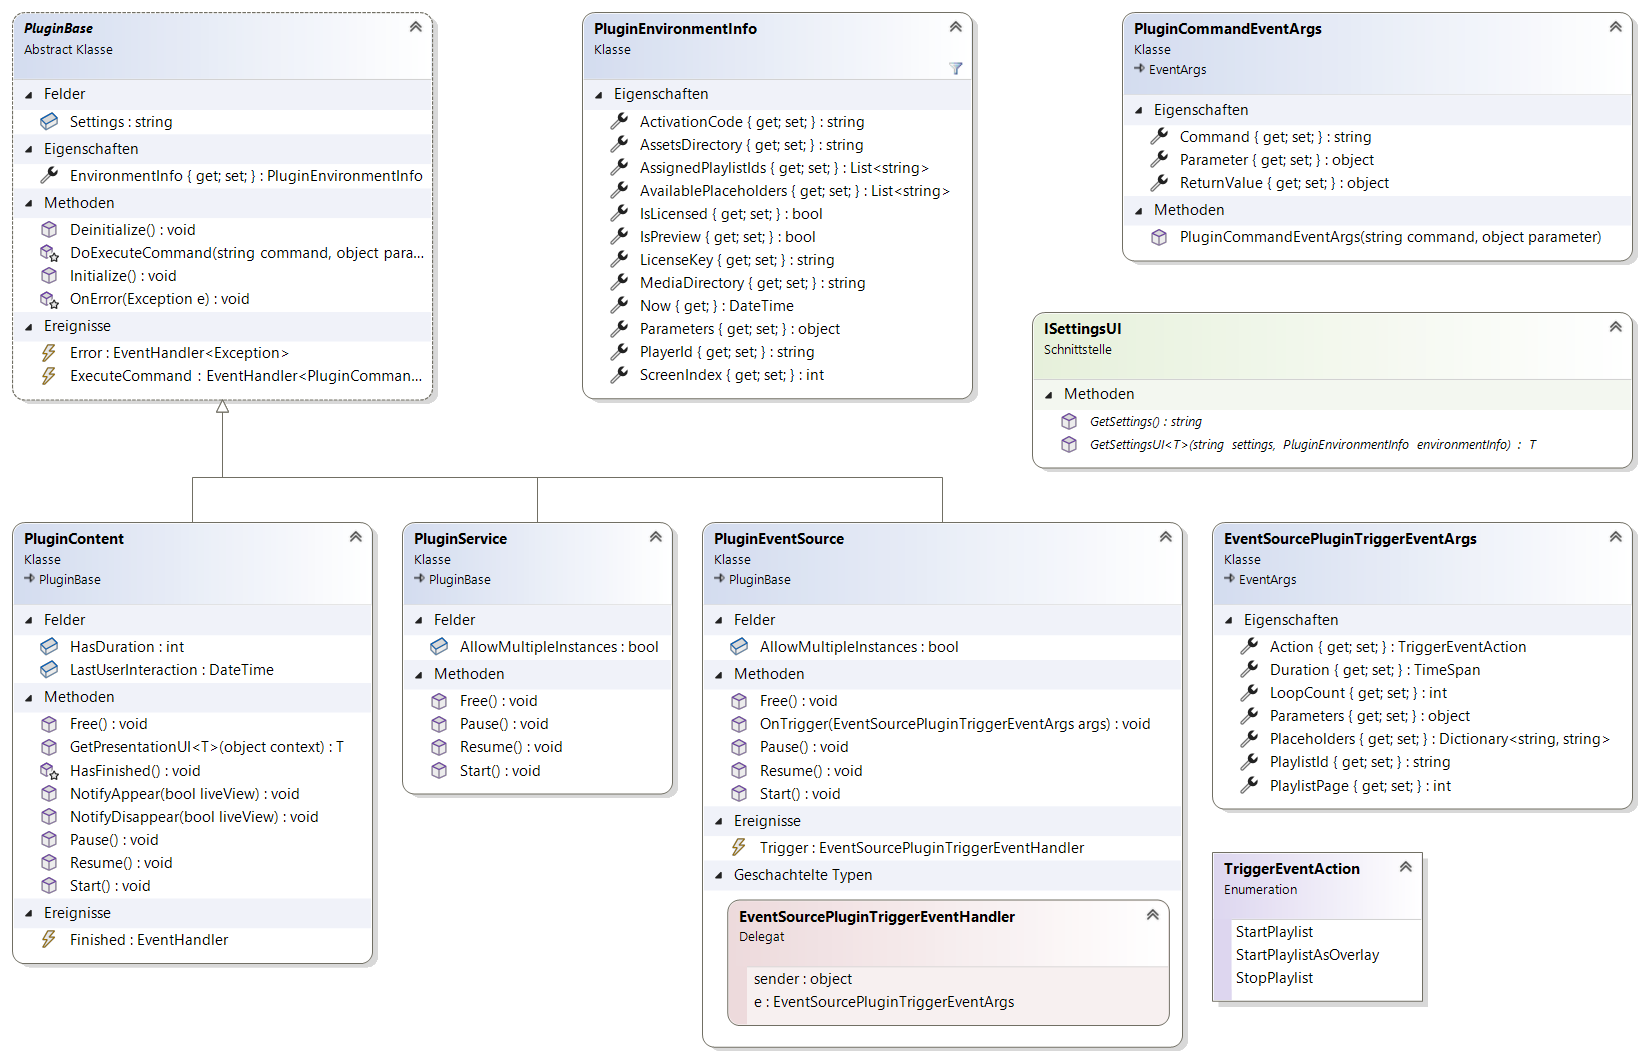
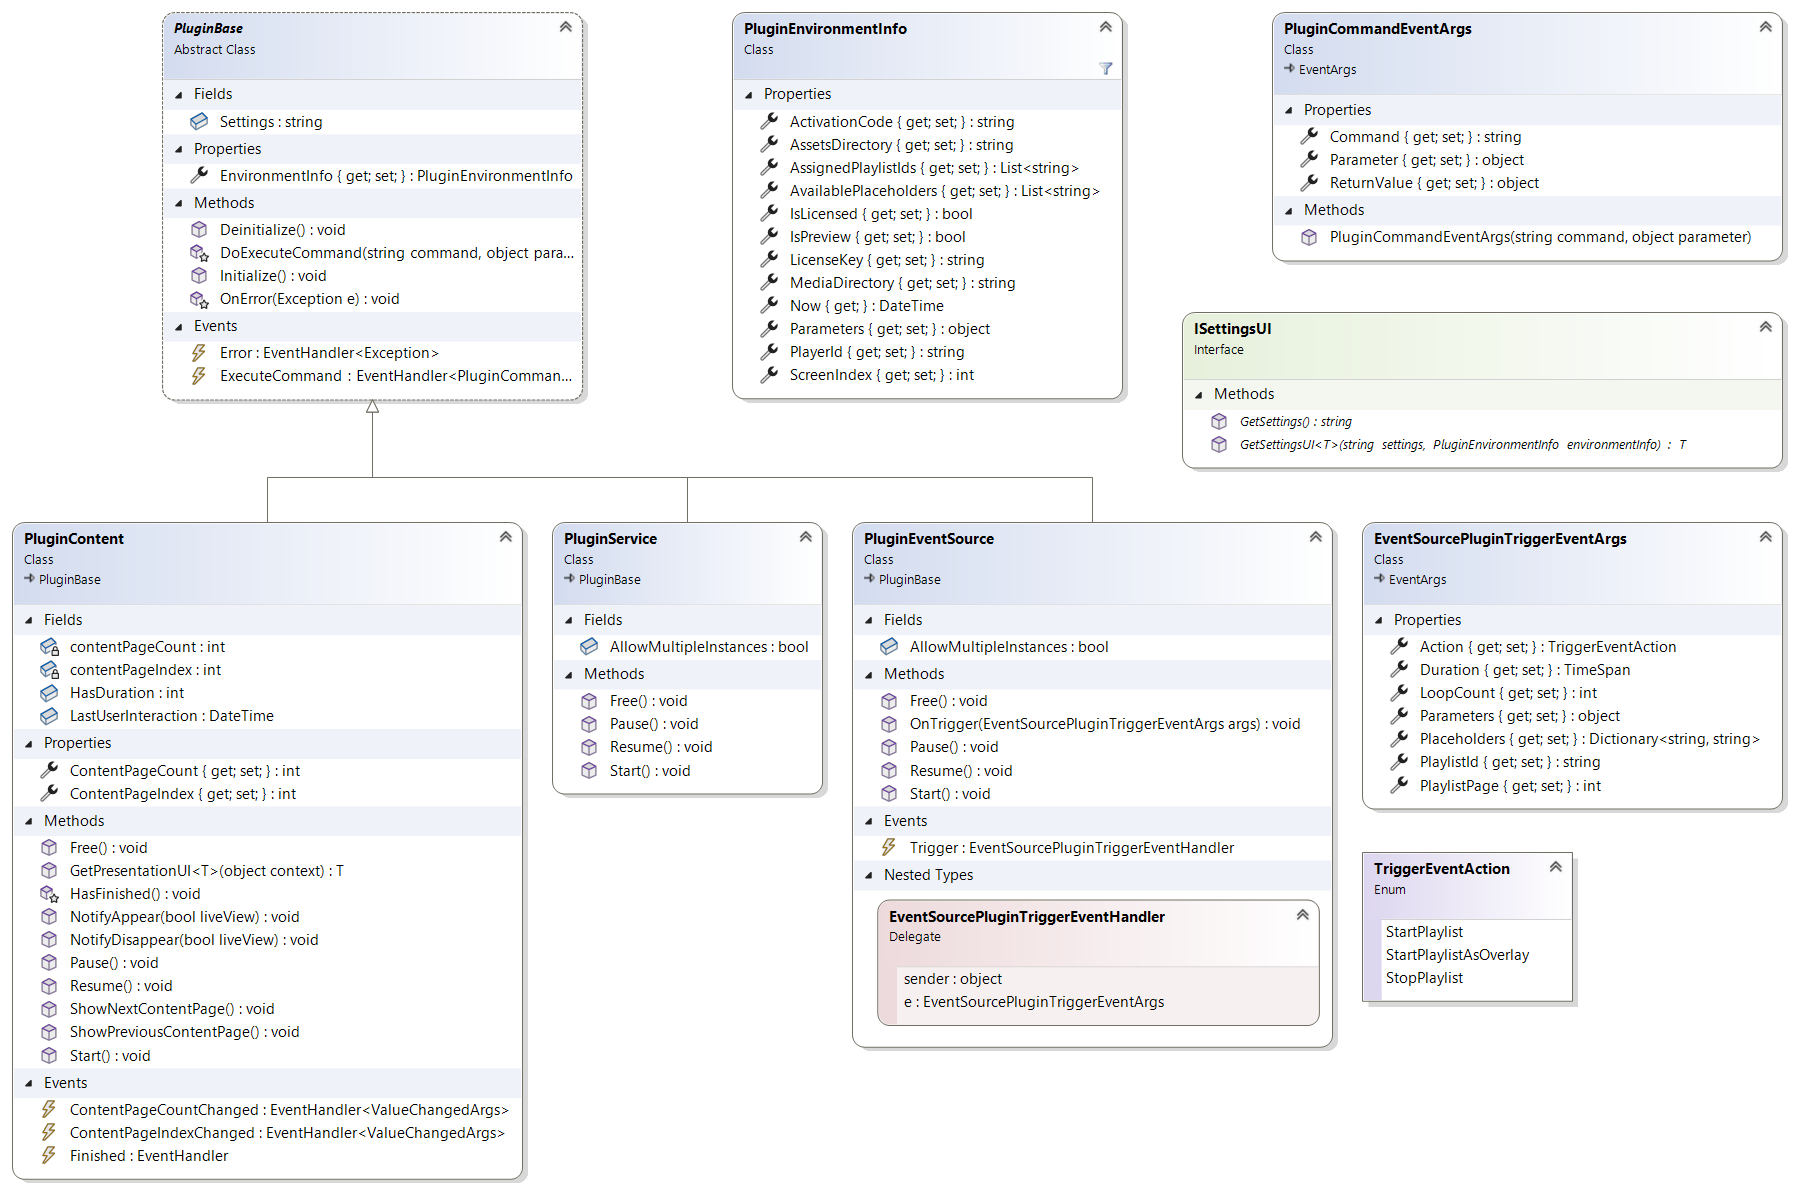
Added new methods to plugin class for multi-page content and English language class diagram.

Changed region(s): [[0.0, 0.0, 1.0, 0.9981]]

diff --git a/Documentation/Documentation.md b/Documentation/Documentation.md
@@ -1,7 +1,7 @@
 
 # FrontFace Plugin SDK - Documentation
 
-**Version 4.6.4** (Rel. 13-01-2023)
+**Version 4.6.4** (Rel. 31-01-2023)
 
 The *FrontFace Plugin SDK* allows you to extend the [FrontFace digital signage & kiosk software](https://www.mirabyte.com/en/frontface/) with custom functionality. The SDK (Software Development Kit) is based on the *Microsoft .NET 4.8 Framework* and *Windows Presentation Foundation (WPF)*. For developing your own plugins, you also need *Microsoft Visual Studio 2022* (both, the regular versions as well as the free [Community Editions](https://visualstudio.microsoft.com/en-US/vs/community/) are supported!). Plugins can be either written in C# (recommended) or in any other .NET language like e.g., VB.NET.
 
@@ -86,10 +86,18 @@ When a paused playlist is continued, this method is called. You can now resume t
 * ``NotifyDisappear(bool liveView)``  
 This method is called when the plugin is about to be removed from the screen. The ``liveView`` parameter is ``True`` if the plugin should continue to animate during the transition effect. If the value is ``False``, you should stop any visual animation on the screen by now.
 
+* ``ShowNextContentPage()``
+This method is called when the player asks the plugin to show the next page in a sequence of pages (pageable content). The method is not called if ``ContentPageIndex`` >= ``ContentPageCount``. If the content does not show any pageable content, this method can be ignored.
+
+* ``ShowPreviousContentPage()``
+This method is called when the player asks the plugin to show the previous page in a sequence of pages (pageable content). The method is not called if ``ContentPageIndex`` <= ``ContentPageCount``. If the content does not show any pageable content, this method can be ignored.
+
 * ``Free()``  
 This is the last method that is called when the plugin has disappeared from the screen and is not needed any more. You should now finally stop any actions, timers or animations and dispose anything that needs to be disposed. After that, the plugin instance is gone and will be ultimately removed by the .NET garbage collector.
 
-To tell the player app if the plugin has a natural duration (e.g., like a video), you have to make sure that the plugin returns either ``0`` if it has no duration (like e.g., a picture) or ``1`` if it does have a duration (e.g., like a video) as value of the ``HasDuration`` property. If the plugin does have a natural duration, please make sure that you fire the ``Finished`` event by calling the ``HasFinished()`` method in order to tell the player app that the plugin has now ended.
+To tell the player app if the plugin has a natural duration (e.g., like a video), you have to make sure that the plugin returns either ``0`` if it has no duration (like e.g., a picture) or ``1`` if it does have a duration (e.g., like a video) as value of the ``HasDuration`` property. If the plugin does have a natural duration, please make sure that you fire the ``Finished`` event by calling the ``HasFinished()`` method in order to tell the hosting FrontFace player app that the plugin has now ended.
+
+If the plugin displays pageable content (content that consists of mulitple screen pages, e.g. a multi-page document), you need to set the ``ContentPageCount`` and ``ContentPageIndex`` properties to tell the hosting FrontFace player app the total number of available pages and the index of the currently displayed page. The intial values of both properties is ``1`` (= non-pageable content). The ``ContentPageIndex`` of the first page is ``1``; the ``ContentPageIndex`` of the last page equals ``ContentPageCount``. Both, the total number of pages and the current page index can be updated at any time during the lifecycle of the plugin (e.g. if ``ShowNextContentPage()`` or ``ShowPreviousContentPage()`` is called or if the number of pages should change). Updates of the these properties are propagated automatically to the hosting FrontFace player app.
 
 If your plugin interacts with the user, please set the LastUserInteraction property to the current date/time (``DateTime.Now``) of the system clock whenever there was an interaction with the user.
 
